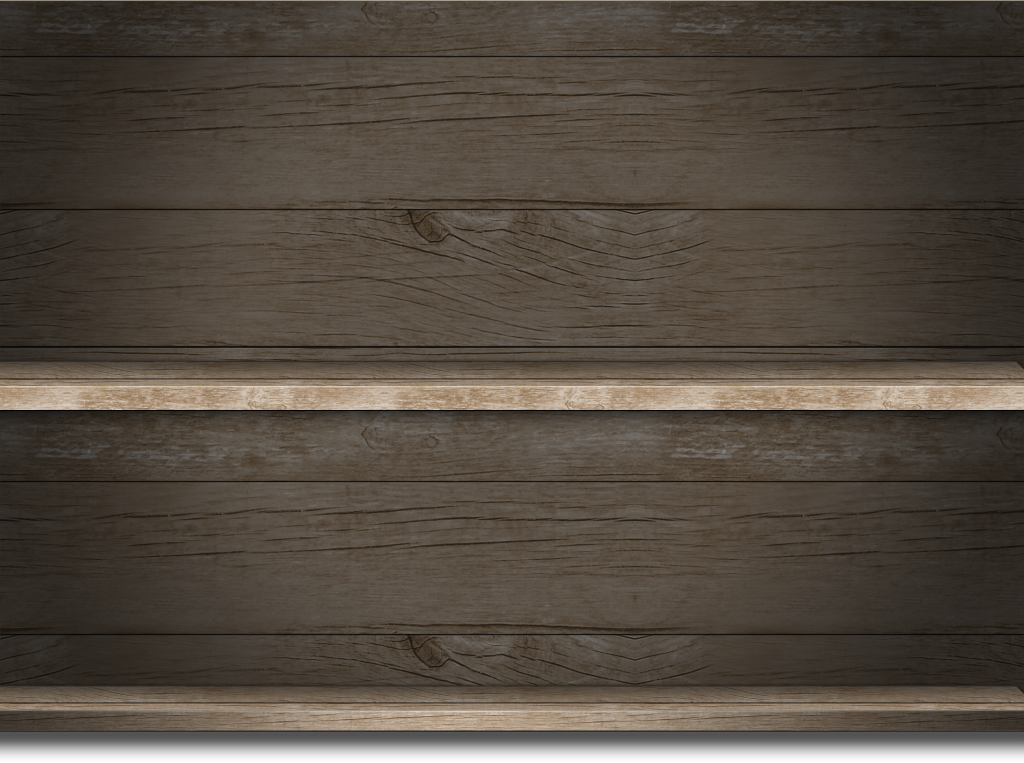
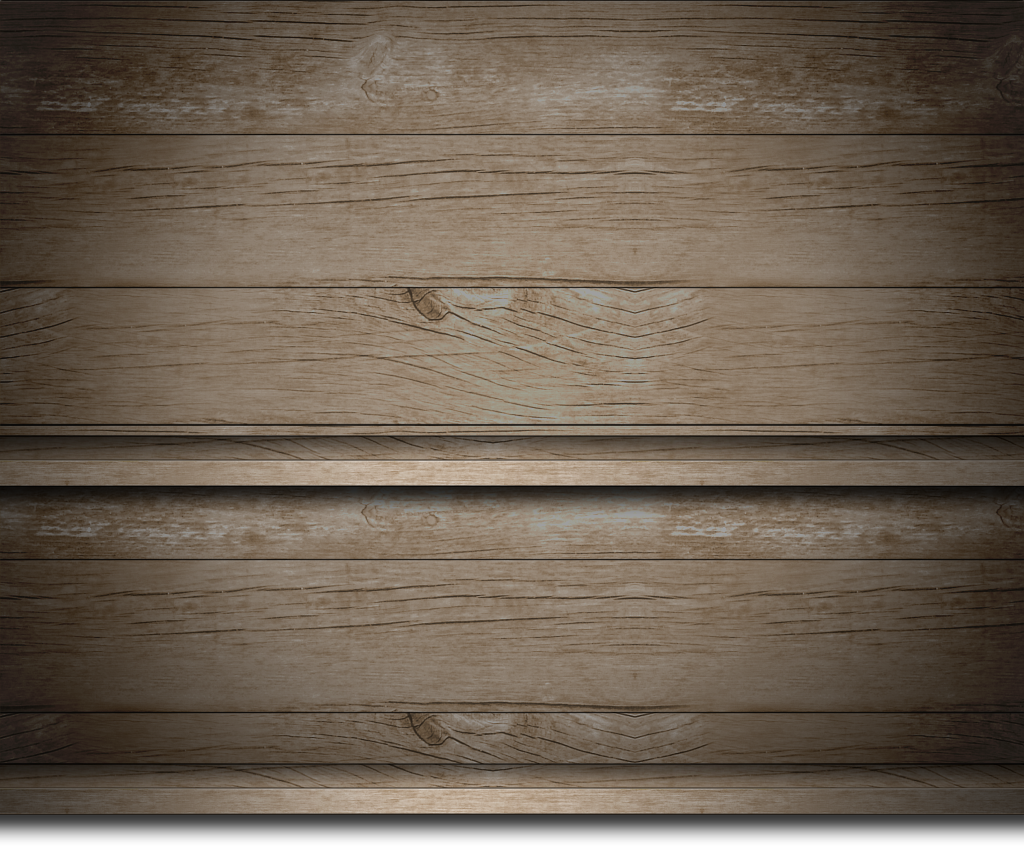
Updated store shelves

diff --git a/Cook/Classes/Controllers/Store/StoreViewController.m b/Cook/Classes/Controllers/Store/StoreViewController.m
@@ -40,7 +40,7 @@
     featuredViewController.view.frame = CGRectMake(self.view.bounds.origin.x,
                                                    self.view.bounds.origin.y,
                                                    self.view.bounds.size.width,
-                                                   rowHeight + 93.0);
+                                                   rowHeight + 250.0);
     featuredViewController.view.autoresizingMask = UIViewAutoresizingFlexibleRightMargin|UIViewAutoresizingFlexibleWidth|UIViewAutoresizingFlexibleTopMargin;
     [self.view addSubview:featuredViewController.view];
     self.featuredViewController = featuredViewController;

diff --git a/Cook/Classes/Controllers/RootViewController.m b/Cook/Classes/Controllers/RootViewController.m
@@ -224,7 +224,7 @@
         
         // Show frame is just the top of the view bounds.
         CGRect showFrame = CGRectMake(self.view.bounds.origin.x,
-                                      self.view.bounds.origin.y - kStoreShowAdjustment,
+                                      self.view.bounds.size.height - self.storeViewController.view.frame.size.height - kStoreShowAdjustment,
                                       self.view.bounds.size.width,
                                       self.storeViewController.view.frame.size.height);
         if (bounce) {
